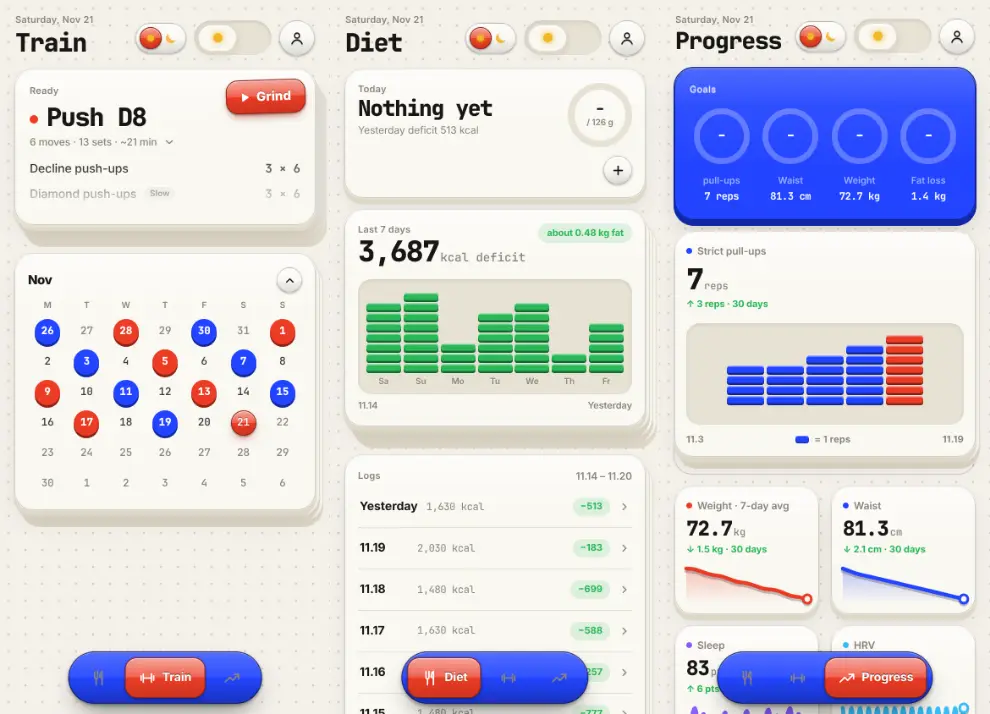
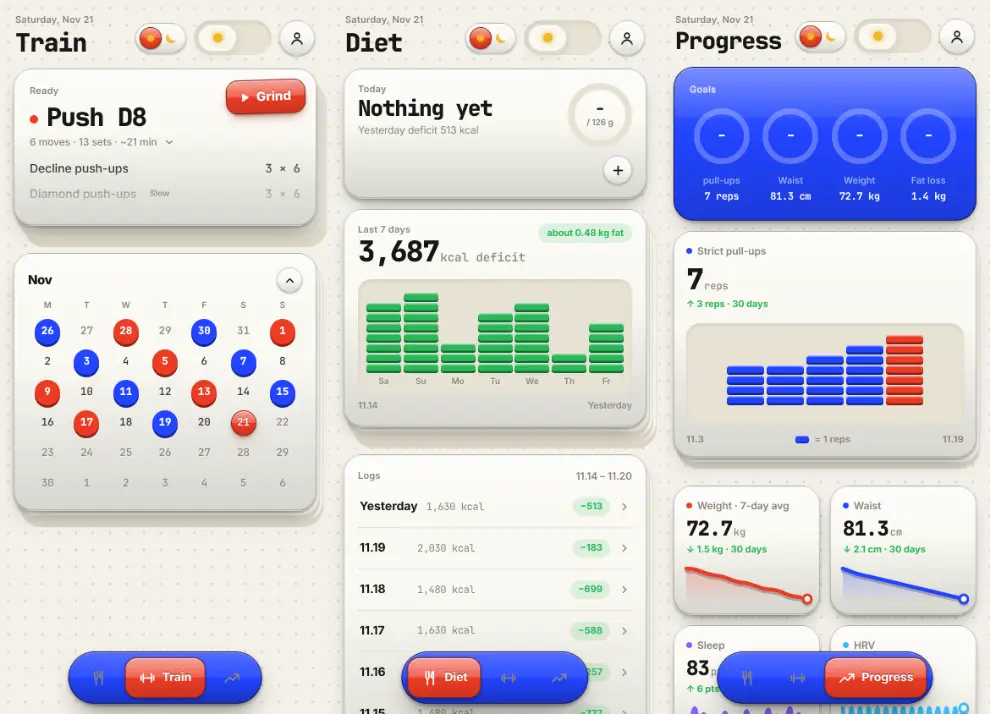
iOS 6 gloss themes: cards, tiles, boards and panels become glass slabs in the theme's colour; thumbnails reshot
Claude-Session: https://claude.ai/code/session_015uTD2PhWcYHBYc8Si5P4yd

diff --git a/css/p1.css b/css/p1.css
@@ -1666,11 +1666,25 @@ body.has-mini.mini-big .wrap{padding-bottom:calc(318px + env(safe-area-inset-bot
 :root[data-gloss][data-mode="dark"]{--g-top:rgba(255,255,255,.18);--g-mid:rgba(255,255,255,.05);--g-edge:rgba(0,0,0,.65);--g-inset:rgba(255,255,255,.16);--g-emb:0 -1px 0 rgba(0,0,0,.6)}
 :root[data-gloss][data-theme="toy"]{--g-btn:var(--red,var(--ac))}
 :root[data-gloss][data-gloss] body{text-shadow:var(--g-emb)}
-/* surfaces: each theme keeps its own card; the sheen lies on top of it as a layer under the content */
-:root[data-gloss][data-gloss] :is(.card,.tile,.dark,.sheet .panel,.mask .sheet,.mini-pl){isolation:isolate}
-:root[data-gloss][data-gloss] :is(.card,.tile,.dark,.sheet .panel,.mask .sheet,.mini-pl)::before{content:"";position:absolute;inset:0;border-radius:inherit;pointer-events:none;z-index:-1;
-  background:linear-gradient(180deg,var(--g-top) 0,var(--g-mid) 46px,rgba(255,255,255,0) 120px);box-shadow:inset 0 1px 0 var(--g-inset),inset 0 0 0 1px var(--g-edge)}
-:root[data-gloss][data-gloss] .dark:not(.hero)::before,:root[data-gloss][data-mode="dark"][data-gloss] .hero::before{background:linear-gradient(180deg,rgba(255,255,255,.2) 0,rgba(255,255,255,.06) 46px,rgba(255,255,255,0) 120px);box-shadow:inset 0 1px 0 rgba(255,255,255,.26),inset 0 0 0 1px rgba(0,0,0,.45)}
+/* surfaces: cards, tiles, panels and boards become glass slabs in the theme's own colour (--gb): a lighter top,
+   a bright band across the top cut by a hard line, a darker foot, a white hairline on top and a dark rim */
+:root[data-gloss]{--g-slab:linear-gradient(180deg,rgba(255,255,255,.55) 0,rgba(255,255,255,.14) 58px,rgba(255,255,255,0) 59px);--g-rim:rgba(0,0,0,.18)}
+:root[data-gloss][data-mode="dark"],:root[data-gloss][data-theme="tm4"]{--g-slab:linear-gradient(180deg,rgba(255,255,255,.2) 0,rgba(255,255,255,.05) 58px,rgba(255,255,255,0) 59px);--g-rim:rgba(0,0,0,.6)}
+:root[data-gloss][data-theme="pocket"]{--g-hero:#2A2E32}
+:root[data-gloss][data-theme="pocket"][data-mode="dark"]{--g-hero:#0B0C0D}
+:root[data-gloss][data-theme="toy"]{--g-dk:#2244FF}
+:root[data-gloss][data-theme="toy"][data-mode="dark"]{--g-dk:#6B3FB8}
+:root[data-gloss][data-theme="clay"]{--g-dk:#A4E2CD}
+:root[data-gloss][data-theme="tm4"]{--g-dk:var(--card)}
+:root[data-gloss][data-gloss] :is(.card,.tile,.sheet .panel,.mask .sheet,.mini-pl){--gb:var(--card)}
+:root[data-gloss][data-gloss] .hero.hero.hero{--gb:var(--g-hero,var(--card))}
+:root[data-gloss][data-gloss] .dark:not(.hero){--gb:var(--g-dk,var(--dark-solid))}
+:root[data-gloss][data-gloss] :is(.card,.tile,.dark,.sheet .panel,.mask .sheet,.mini-pl){
+  background:var(--g-slab),linear-gradient(180deg,color-mix(in srgb,var(--gb) 80%,#fff) 0%,var(--gb) 42%,color-mix(in srgb,var(--gb) 86%,#000) 100%);
+  border:1px solid var(--g-rim);box-shadow:inset 0 1px 0 var(--g-inset),inset 0 -1px 0 rgba(0,0,0,.14),0 2px 3px rgba(0,0,0,.22),0 12px 24px -12px rgba(0,0,0,.5)}
+/* boards with light text (and the pocket screen) take the darker glass */
+:root[data-gloss][data-gloss] .dark:not(.hero),:root[data-gloss][data-theme="pocket"][data-gloss] .hero{--g-slab:linear-gradient(180deg,rgba(255,255,255,.24) 0,rgba(255,255,255,.06) 58px,rgba(255,255,255,0) 59px);--g-inset:rgba(255,255,255,.3);--g-rim:rgba(0,0,0,.6)}
+:root[data-gloss][data-theme="clay"][data-gloss] .dark:not(.hero){--g-slab:linear-gradient(180deg,rgba(255,255,255,.55) 0,rgba(255,255,255,.14) 58px,rgba(255,255,255,0) 59px);--g-inset:rgba(255,255,255,.9);--g-rim:rgba(0,0,0,.18)}
 :root[data-gloss][data-gloss] :is(.opt,.thc,.preset,.xitem,.shopc,.badge){background:var(--g-soft),var(--sub);border:1px solid var(--g-edge);box-shadow:inset 0 1px 0 var(--g-inset),0 1px 1px rgba(0,0,0,.08)}
 :root[data-gloss][data-gloss] :is(.opt[aria-pressed="true"],.thc.on,.preset.on){border-color:color-mix(in srgb,var(--g-btn) 70%,#000);box-shadow:inset 0 1px 0 var(--g-inset),0 0 0 2px color-mix(in srgb,var(--g-btn) 45%,transparent)}
 /* accent keys: the classic two-tone glossy button */

diff --git a/index.html b/index.html
@@ -10,9 +10,9 @@
 <link rel="manifest" href="manifest.json?v=5">
 <link rel="apple-touch-icon" href="apple-touch-icon.png?v=5">
 <link rel="icon" href="icon-192.png?v=5" type="image/png">
-<script src="js/early.js?v=3b06e9bc"></script>
+<script src="js/early.js?v=91c23302"></script>
 <link rel="preload" href="fonts/geist-wght.woff2" as="font" type="font/woff2" crossorigin>
-<link rel="stylesheet" href="css/p1.css?v=3b06e9bc"></head><body>
+<link rel="stylesheet" href="css/p1.css?v=91c23302"></head><body>
 <div class="wrap">
   <header class="top">
     <div><p class="eyebrow" id="today"></p><h1 id="title">训练</h1></div>
@@ -40,21 +40,21 @@
 <div class="toast" id="toast" role="status"></div>
 <span id="ver" hidden>v1.66a</span>
 
-<script defer src="js/hant.js?v=3b06e9bc"></script>
-<script defer src="js/core.js?v=3b06e9bc"></script>
-<script defer src="js/diet.js?v=3b06e9bc"></script>
-<script defer src="js/confetti.js?v=3b06e9bc"></script>
-<script defer src="js/sheetcore.js?v=3b06e9bc"></script>
-<script defer src="js/backupcore.js?v=3b06e9bc"></script>
-<script defer src="js/p1data.js?v=3b06e9bc"></script>
-<script defer src="js/p1fx.js?v=3b06e9bc"></script>
-<script defer src="js/p1stack.js?v=3b06e9bc"></script>
-<script defer src="js/coros.js?v=3b06e9bc"></script>
-<script defer src="js/engine.js?v=3b06e9bc"></script>
-<script defer src="js/scratch.js?v=3b06e9bc"></script>
-<script defer src="js/p1.js?v=3b06e9bc"></script>
-<script defer src="js/p1settings.js?v=3b06e9bc"></script>
-<script defer src="js/p1day.js?v=3b06e9bc"></script>
-<script defer src="js/p1weather.js?v=3b06e9bc"></script>
-<script defer src="js/p1music.js?v=3b06e9bc"></script>
+<script defer src="js/hant.js?v=91c23302"></script>
+<script defer src="js/core.js?v=91c23302"></script>
+<script defer src="js/diet.js?v=91c23302"></script>
+<script defer src="js/confetti.js?v=91c23302"></script>
+<script defer src="js/sheetcore.js?v=91c23302"></script>
+<script defer src="js/backupcore.js?v=91c23302"></script>
+<script defer src="js/p1data.js?v=91c23302"></script>
+<script defer src="js/p1fx.js?v=91c23302"></script>
+<script defer src="js/p1stack.js?v=91c23302"></script>
+<script defer src="js/coros.js?v=91c23302"></script>
+<script defer src="js/engine.js?v=91c23302"></script>
+<script defer src="js/scratch.js?v=91c23302"></script>
+<script defer src="js/p1.js?v=91c23302"></script>
+<script defer src="js/p1settings.js?v=91c23302"></script>
+<script defer src="js/p1day.js?v=91c23302"></script>
+<script defer src="js/p1weather.js?v=91c23302"></script>
+<script defer src="js/p1music.js?v=91c23302"></script>
 </body></html>

diff --git a/docs/PRODUCT.md b/docs/PRODUCT.md
@@ -62,7 +62,7 @@
 - **主题盲盒：** G 分商店顶上，余额右边是 App 图标那只信封，隔几秒轻轻晃一下。点它问「花 100 G 开一个主题盲盒？」，付了之后弹出刮刮卡（Ovio 的 Scratch to Reveal，`js/scratch.js`），手指刮开涂层，刮过一半剩下的自己掉；下面是随机抽到的、你还没有的主题（色板 + 名字），揭开时放庆祝，下面出现「好」和「换上」。给过的主题不会再给；所有主题都有了，信封变灰，点了只提示已集齐。刮刮卡的样子跟着当前主题：草木、暖砂、喷砂铝、白瓷、粉瓷是 minimal（磨砂涂层），糖果塑料、黏土是 toy（撒糖粒的蓝橡胶，揭开时彩纸飞出），钴蓝、冰蓝拉丝、奶油塑料是 retro（绿色雪花噪点，一格一格擦），拉丝铝、米白烤漆、黑皮压纹是 craft（银色锡箔票，用硬币刮的毛边）。
 - **G 币和 G 分商店：** G 的图标是当下主题的圆形按钮，中间一个金色的 G，金光一呼一吸；商店叫「G 分商店」（谐音「积分」），英文 barGain store。
 - **图标：** 一只纸信封，里面插着一张刮刮卡（银色待刮的涂层），信封左下角压印一个图案。信封的纸色跟着主题走：每个主题、每个明暗版本都有自己颜色的一套（草木亮色是原稿的鼠尾草绿，钴蓝是钴蓝，粉瓷是粉，等等），纸的明暗、纹理、压印都保留。图案由用户在 设定 › 外观 › App 图标 里选：心、星、十字、鸟、猫、狗、兔（存在 `tracktor-p1-icon`）。换主题、切明暗或换图案时，网页的图标、iPhone 图标和 manifest 一起指到对应的那一套（`js/p1.js` 的 `iconApply`；`index.html` 开头的小脚本从 `tracktor-icon` 提前设好，这样安装时拿到的就是选好的）。主屏幕上已经装好的图标不会马上变：安卓一般过一两天自己更新，iPhone 要删掉重新添加（写在面板的「i」里）。图片是 `icons/<主题>-<light|dark>-<图案>.webp`（圆角方块）、`-m.webp`（可遮罩：方块缩小放在同色的深色底上）、`-a.png`（iPhone，180 px 满版）和 `.json`（那一套的 manifest），由 `tools/icons.py` 从 `tools/icon-src/` 的七张原稿染色生成（裁掉原稿的浅色边、重新做圆角）；仓库根目录的 `icon-*.png`、`apple-touch-icon.png` 是默认的草木绿爱心。主题盲盒就是这个图标：刮刮卡先藏在信封里，能开时卡片升出来，停在图标的样子。
-- **主题：** 多数主题有亮、暗两版，顶栏同步按钮左边是明暗开关（点一下切换，长按进主题页，也就是 G 分商店的主题区）；只有一种样子的主题没有这个开关，设定 › 外观里也不显示「跟随手机 / 亮 / 暗」，主题在 G 分商店换。G 分商店的主题列表只显示已经拥有的主题，没解锁的一个都不露，保持神秘；只有主题盲盒右上角一个数字，写着还有几套没解锁，新主题只从盲盒里开。盲盒就是 App 图标本身，只是信封封着：同样的蓝底、颗粒、玫红信封和左下角的心，卡片和 G 币藏在里面，上盖合着：G 不够 100 或主题都集齐了，点它只抖一下、不打开；能开时点它，先轻轻一按，上盖沿折痕往后翻开、内侧翻到卡片后面，卡片带着 G 币从信封里升出来、回弹停住，正好是 App 图标，接着进刮刮卡（面板没有标题）；能开时它隔几秒轻轻晃一下。刮刮卡穿的是当前主题的颜色和质感（卡片、颗粒、凹槽、强调色，Ovio 的 Scratch to Reveal 只是底子），没有多余的字，只有一条进度线；刮开不到一半，底下只是一团模糊，什么也看不出，这时关掉就算没开盒、不扣 G；刮过一半才扣 100 G、收进主题，奖品从模糊里慢慢清楚：那套主题三个主页面（训练、饮食、进展）的缩略图叠成一小摞（亮暗两版的是六张，名字后面一个彩色日月图标（黄太阳 | 紫月亮）），点它弹出一个不超过半个屏幕的面板，左右划或点一下一张张看。下面两个键：「收下」和「使用」。主题列表里每个主题也用自己三页的缩略图一小摞来认（当前明暗那一版），亮暗两版的带日月图标，不再用色块条。缩略图是 `img/th/<主题>-<light|dark>.webp`（三页并排），用 `tools/thumbs.js` 拿假数据在无头浏览器里截，一律是英文界面，三种语言共用一套。草木 · 极光免费（亮色石膏灰配柔和的鼠尾草绿，暗色深海黑配极光青）；暖砂 · 流金 60 G（亮色燕麦石灰配陶土橙，暗色黑曜石配落日流金）；玩具 90 G：照开源的 Ovio UI「toy」风格（MIT），点阵底板、塑料卡片带唇边、红蓝黄绿原色按键按下会沉下去、缺口柱子是一块块积木、日历上练过的日子是彩色塑料钉、目标是一块蓝色塑料板、数字用等宽字，打勾是红色街机按钮，彩带换成原色方块和圆点；亮色是奶油色塑料配红蓝黄绿，暗色是巨型机器人配色的夜间玩具：深紫底板和紫色塑料卡片，荧光青柠绿是主色，橙色是第二色（缺口 / 盈余、好 / 坏也是绿 / 橙），目标是一块紫色塑料板。立体感：顶栏的同步按钮照 Ovio 的 pull to sync 做成凹槽里的塑料滑块（拖到最右松手同步、弹簧弹回，轻点也同步；中间小灯平时黄、同步中闪、完成绿），头像是圆鼓鼓的蓝色塑料按钮；卡路里柱子照 Ovio 的 star history 摞成 8px 的小积木，每块底下一道深色唇边、顶上一线高光；卡片有亮的上沿和 7px 唇边，厚度更明显，图表的线是带投影的塑料管，目标圈有投影。声音也换成玩具声：打勾「啵」、做完一个动作木琴琶音、休息结束布谷鸟、练完玩具小号、点按塑料咔哒，烟花是卡通「砰」加一串弹珠声。亮色版的颜色都压低了饱和度，不刺眼，大约是一周练够三天赚的。另有四套只有一种样子的触感主题：钴蓝磨砂 120 G（暗：蓝色阳极铝面板，卡片带斜面高光，按钮是圆柱键帽，底板和卡路里柱子是点阵屏，线和指示灯有白蓝辉光，打勾是高圆柱旋钮）；拉丝铝 · 霓虹 120 G（亮：拉丝铝卡片配顶光，按钮是黑色阳极件上的青色霓虹字，小按钮是锥纹金属旋钮，打勾是黑表圈白表盘，目标板是黑色，柱子是喇叭网孔、今天那根亮青色）；米白烤漆 90 G（亮：米白机身，方键、凹碟、柿橙圆点，底栏是黑色键槽里的米白方键，顶栏按钮是黑座圆顶、头像是橄榄绿，打勾是滚花拨盘）；黏土 · 薄荷 90 G（亮：网格纸底，白色积木卡片带往左下的斜投影，按钮是薄荷积木，目标板是薄荷色，打勾做完变成发光的薄荷圆环）。这四套的光影按同一套做法：每套一个固定光源方向；每种材质有自己的颗粒（塑料细颗粒、拉丝铝的单向拉丝、黏土的哑光粉感）；卡片阴影分接触阴影、中距和远距三层，加上边缘高光和底部暗部；底板有顶光光池和四周暗角；高光跟着手机倾斜移动，金属旋钮的反光和滚花拨盘跟着转，手拿稳后慢慢回到原位（电脑上跟着鼠标）。系统开了「减少动态效果」就不动。玩具主题保持 Ovio 原版的卡通效果，不开光追（试过让按键侧面跟着倾斜，不自然又拖慢，去掉了）。每套主题的拉丁字母和数字用自己的字体（都放在网站里，离线也能用）：拉丝铝 Michroma（宽体仪表字，标题大写）、钴蓝 Doto（点阵字，带辉光；中文配 Fusion Pixel 像素字的子集，改名 bG Pixel SC，只含 App 用到的字和 3755 个常用字，标题、动作名、单位和数字一样是像素的）、米白 Inter Tight（瑞士风）、黏土 Nunito（圆润）、暖砂 Fraunces（温润的衬线），草木 · 极光用 Geist、标题和数字字重更轻、小标题大写加字距，偏冷淡。开关和分段按钮也各按主题做成不同的硬件：拉丝铝是凹槽里的金属球拨杆和走带键排、钴蓝是推子和键帽排、米白是黑槽里的米白拨杆和黑框方键排（选中的键下面一个柿橙点）、黏土是积木拨块。奶油塑料 120 G（亮、暗两版，跟着倾斜打光）：油润的半哑光塑料机身，亮色是暖灰机身配奶油色和藕粉色按键，暗色是黑色机身配橙色和朱红按键；训练卡和目标卡是嵌在边框里的点阵屏（标题和专注页的大数字用点阵字），按钮是带凹碟的方键，圆钮是旋钮，开关是小方槽里的圆按钮（打开时亮红灯），柱子是喇叭网孔，日历今天是红色指示灯。另有五套材质主题：冰蓝拉丝 120 G（固定亮色：冰蓝拉丝阳极铝机身，训练卡、目标卡和积木图是嵌在黑框里的绿灰色段码液晶，数字用液晶等宽字，小键是黑色橡胶键，开练是橙色播放键，打勾是银色拉丝转盘套橙圈，图标按钮是金属钮）；黑皮压纹 120 G（固定暗色：真的有凹凸的黑色压纹蒙皮，训练卡左边一道红色饰条，按钮是镁合金件，开练是红色，旋钮和小按钮是滚花拨盘，打勾是带银圈的快门键）；粉瓷 · 铜蓝 120 G（亮、暗两版，照 Dyson 两款吹风机的配色：亮是奶白陶瓷机身配玫瑰金属色风筒、淡紫灰滤网和旋纹按钮，底色是柔和的粉；暗是普鲁士蓝哑光机身配金铜风筒和铜色滤网、铜色旋纹按钮；两版共有：细颗粒的阳极氧化质感，按键和目标板是金属色，小圆钮是带深色边、微微凸起看得到厚度的旋纹金属钮，积木图和拨轮用穿孔滤网的纹样，打勾像正对着的风嘴，中间深色风口外一圈透明环；跟着光追有高光）；钴蓝的按钮和卡片是同一种平面斜边材质，不再是圆鼓鼓的键帽；喷砂铝 120 G（亮、暗两版：银色 / 深空灰的喷砂铝，钻石切边高光，按钮是黑色键帽，训练卡和目标卡像黑色屏幕嵌在边框里，开练是蓝色，打勾是带金属圈的指纹键）；白瓷 120 G（亮、暗两版：没有描边的实心瓷块，背后是柔和的彩色光斑，顶边一线高光、底边透光，下面一道透明的厚度，有一条亮的反光带，选中项是经典的蓝色渐变高亮，目标卡是蓝色背光屏，打勾是点按转盘，中间按钮做完变蓝）。积木柱状图：饮食页的缺口 / 盈余柱子是一块块积木摞成的（这张卡在可以左右划走的卡堆里，所以积木不随手指弹）。进展页的主项是一个两张牌的毛玻璃卡堆，字体和别的数据卡一样（小标签、大数字、涨跌）：第一张是主项最近 12 次的单组最好成绩，第二张是每周总数（训练日、加在训练里的、休息日记的都算，从第一个有记录的周开始、最多 12 周，大数字是总数，下面是本周）。两张都用积木：一块积木是一个整数（1、2、5、10…个，让最高那列不超过 9 块），图下写着「▬ = 5 个」，最高的一列换第二种颜色。画出来时积木一块块掉下来；手指在积木上划过，经过的那一列弹起、轻振一下，右上角浮出那一列的日期和数；积木区域里手指只读数、不翻牌，翻牌在卡片上半部分划，或点后面露出的那张。整个卡堆和别的数据卡一样，长按可以拖动或隐藏，点一下打开完整曲线。旋钮：图表的时间范围（14 天 / 30 天 / 90 天 / 全部）和设定里的语言（简中 / 繁中 / Eng）都是旋钮，标签排在上方的弧线上，可以转、点旋钮跳下一档、或点标签；每套主题的旋钮和积木都是自己的材质。设定 › 外观 › 特效：光追（开关：开是轻微的效果，高光跟着倾斜慢慢移动、每秒最多更新十来次；关掉就不跟倾斜）、天气、两天没练就落灰（两天没有训练或加练，画面开始落灰、泛黄、褪色，分三档：2–4 天、5–7 天、8 天起，四周的做旧斑驳（`img/grunge-1..3.webp`，用噪声画的，不是网上的图）一档比一档往里蔓延，裂纹和划痕也更多；暗色下是浅色的灰；一打勾就从左往右擦干净）、庆祝效果。庆祝效果跟着主题走（每套主题都有自己的，不再用通用烟花；不管东西轻重，每一片发射前都按它自己的重力和阻力算好力度，至少飞到屏幕上方三分之一），声音也换成一整套：草木撒叶子（3–8 月是深浅不一的绿叶，9–2 月是红橙黄褐的秋叶），配玻璃风铃；暖砂飘金箔，配温暖的铃声；粉瓷 · 铜蓝飘小花朵和花瓣（亮版粉和奶白，暗版金铜和奶白带一点淡蓝），先有一阵风声；喷砂铝和白瓷是一闪一闪的四角星光，配一声干净的「叮」；冰蓝拉丝撒一把小 MD 碟（半透明彩色外壳，能看到里面的光盘和滑盖，标签上是你最近在 Spotify 听过的歌的封面，没连 Spotify 就是白标签），落地塑料咔哒声；黑皮压纹是快门一闪、一圈六角光圈往外扩，配机械快门声；玩具撒带凸点的积木块（落地弹几下，倒积木的哗啦声）；钴蓝磨砂是整屏电子点阵爆闪（从爆点扩散的光环和随机闪点，大庆祝先白闪一下，配合成器琶音）；拉丝铝是青色霓虹冲击环加撒落的铬钢珠（落地会弹，叮当的金属声）；米白烤漆是翻转飘落的柿橙 / 米白 / 橄榄色圆片（叮咚两声的钟音）；黏土是落地会压扁的软泥团（噗噗声）；奶油塑料是一格一格落的 8-bit 像素方块（芯片音乐）；草木和暖砂保留烟花。打勾、做完一个动作、休息结束、练完、点按的音效也按主题换。页面标题会自动缩小，不碰顶栏按钮。暖砂 · 流金的底板加了纸张颗粒，卡片是暖色多层阴影、圆角更大。买过的记在 `settings.buys`，余额 = 赚的 − 花的。在「备份进度」里导入一个 G 充值文件（内容是 `PP2g:{"id":…,"g":数量}`）只会加 G、别的数据都不动，同一个文件只算一次（在 `settings.buys` 里记一条负的花费）。亮色下训练卡也是浅色卡片。 暖砂 · 流金、糖果塑料、奶油塑料、钴蓝磨砂、米白烤漆、粉瓷 · 铜蓝、黏土 · 薄荷这七套（`THEMES` 里的 `gloss:1`，页面上是 `html[data-gloss]`）统一加上经典 iOS 6 的玻璃反光质感，颜色仍是各自的：按键、开练、打勾、底栏选中、今天的日期是两段式高光（上半截亮、中间一道硬分界、下沿暗一点、深色描边、字压一道阴影）；卡片、面板、播放器在自己的底色上叠一层顶部渐弱的反光和一线白色高光边；小圆钮和设定行是玻璃质的浅色胶囊；开关统一成 iOS 6 的样子（凹下去的槽、白色玻璃圆钮）；分段按钮选中的那段是强调色玻璃；文字带一道压印阴影（亮色往下白、暗色往上黑）。
+- **主题：** 多数主题有亮、暗两版，顶栏同步按钮左边是明暗开关（点一下切换，长按进主题页，也就是 G 分商店的主题区）；只有一种样子的主题没有这个开关，设定 › 外观里也不显示「跟随手机 / 亮 / 暗」，主题在 G 分商店换。G 分商店的主题列表只显示已经拥有的主题，没解锁的一个都不露，保持神秘；只有主题盲盒右上角一个数字，写着还有几套没解锁，新主题只从盲盒里开。盲盒就是 App 图标本身，只是信封封着：同样的蓝底、颗粒、玫红信封和左下角的心，卡片和 G 币藏在里面，上盖合着：G 不够 100 或主题都集齐了，点它只抖一下、不打开；能开时点它，先轻轻一按，上盖沿折痕往后翻开、内侧翻到卡片后面，卡片带着 G 币从信封里升出来、回弹停住，正好是 App 图标，接着进刮刮卡（面板没有标题）；能开时它隔几秒轻轻晃一下。刮刮卡穿的是当前主题的颜色和质感（卡片、颗粒、凹槽、强调色，Ovio 的 Scratch to Reveal 只是底子），没有多余的字，只有一条进度线；刮开不到一半，底下只是一团模糊，什么也看不出，这时关掉就算没开盒、不扣 G；刮过一半才扣 100 G、收进主题，奖品从模糊里慢慢清楚：那套主题三个主页面（训练、饮食、进展）的缩略图叠成一小摞（亮暗两版的是六张，名字后面一个彩色日月图标（黄太阳 | 紫月亮）），点它弹出一个不超过半个屏幕的面板，左右划或点一下一张张看。下面两个键：「收下」和「使用」。主题列表里每个主题也用自己三页的缩略图一小摞来认（当前明暗那一版），亮暗两版的带日月图标，不再用色块条。缩略图是 `img/th/<主题>-<light|dark>.webp`（三页并排），用 `tools/thumbs.js` 拿假数据在无头浏览器里截，一律是英文界面，三种语言共用一套。草木 · 极光免费（亮色石膏灰配柔和的鼠尾草绿，暗色深海黑配极光青）；暖砂 · 流金 60 G（亮色燕麦石灰配陶土橙，暗色黑曜石配落日流金）；玩具 90 G：照开源的 Ovio UI「toy」风格（MIT），点阵底板、塑料卡片带唇边、红蓝黄绿原色按键按下会沉下去、缺口柱子是一块块积木、日历上练过的日子是彩色塑料钉、目标是一块蓝色塑料板、数字用等宽字，打勾是红色街机按钮，彩带换成原色方块和圆点；亮色是奶油色塑料配红蓝黄绿，暗色是巨型机器人配色的夜间玩具：深紫底板和紫色塑料卡片，荧光青柠绿是主色，橙色是第二色（缺口 / 盈余、好 / 坏也是绿 / 橙），目标是一块紫色塑料板。立体感：顶栏的同步按钮照 Ovio 的 pull to sync 做成凹槽里的塑料滑块（拖到最右松手同步、弹簧弹回，轻点也同步；中间小灯平时黄、同步中闪、完成绿），头像是圆鼓鼓的蓝色塑料按钮；卡路里柱子照 Ovio 的 star history 摞成 8px 的小积木，每块底下一道深色唇边、顶上一线高光；卡片有亮的上沿和 7px 唇边，厚度更明显，图表的线是带投影的塑料管，目标圈有投影。声音也换成玩具声：打勾「啵」、做完一个动作木琴琶音、休息结束布谷鸟、练完玩具小号、点按塑料咔哒，烟花是卡通「砰」加一串弹珠声。亮色版的颜色都压低了饱和度，不刺眼，大约是一周练够三天赚的。另有四套只有一种样子的触感主题：钴蓝磨砂 120 G（暗：蓝色阳极铝面板，卡片带斜面高光，按钮是圆柱键帽，底板和卡路里柱子是点阵屏，线和指示灯有白蓝辉光，打勾是高圆柱旋钮）；拉丝铝 · 霓虹 120 G（亮：拉丝铝卡片配顶光，按钮是黑色阳极件上的青色霓虹字，小按钮是锥纹金属旋钮，打勾是黑表圈白表盘，目标板是黑色，柱子是喇叭网孔、今天那根亮青色）；米白烤漆 90 G（亮：米白机身，方键、凹碟、柿橙圆点，底栏是黑色键槽里的米白方键，顶栏按钮是黑座圆顶、头像是橄榄绿，打勾是滚花拨盘）；黏土 · 薄荷 90 G（亮：网格纸底，白色积木卡片带往左下的斜投影，按钮是薄荷积木，目标板是薄荷色，打勾做完变成发光的薄荷圆环）。这四套的光影按同一套做法：每套一个固定光源方向；每种材质有自己的颗粒（塑料细颗粒、拉丝铝的单向拉丝、黏土的哑光粉感）；卡片阴影分接触阴影、中距和远距三层，加上边缘高光和底部暗部；底板有顶光光池和四周暗角；高光跟着手机倾斜移动，金属旋钮的反光和滚花拨盘跟着转，手拿稳后慢慢回到原位（电脑上跟着鼠标）。系统开了「减少动态效果」就不动。玩具主题保持 Ovio 原版的卡通效果，不开光追（试过让按键侧面跟着倾斜，不自然又拖慢，去掉了）。每套主题的拉丁字母和数字用自己的字体（都放在网站里，离线也能用）：拉丝铝 Michroma（宽体仪表字，标题大写）、钴蓝 Doto（点阵字，带辉光；中文配 Fusion Pixel 像素字的子集，改名 bG Pixel SC，只含 App 用到的字和 3755 个常用字，标题、动作名、单位和数字一样是像素的）、米白 Inter Tight（瑞士风）、黏土 Nunito（圆润）、暖砂 Fraunces（温润的衬线），草木 · 极光用 Geist、标题和数字字重更轻、小标题大写加字距，偏冷淡。开关和分段按钮也各按主题做成不同的硬件：拉丝铝是凹槽里的金属球拨杆和走带键排、钴蓝是推子和键帽排、米白是黑槽里的米白拨杆和黑框方键排（选中的键下面一个柿橙点）、黏土是积木拨块。奶油塑料 120 G（亮、暗两版，跟着倾斜打光）：油润的半哑光塑料机身，亮色是暖灰机身配奶油色和藕粉色按键，暗色是黑色机身配橙色和朱红按键；训练卡和目标卡是嵌在边框里的点阵屏（标题和专注页的大数字用点阵字），按钮是带凹碟的方键，圆钮是旋钮，开关是小方槽里的圆按钮（打开时亮红灯），柱子是喇叭网孔，日历今天是红色指示灯。另有五套材质主题：冰蓝拉丝 120 G（固定亮色：冰蓝拉丝阳极铝机身，训练卡、目标卡和积木图是嵌在黑框里的绿灰色段码液晶，数字用液晶等宽字，小键是黑色橡胶键，开练是橙色播放键，打勾是银色拉丝转盘套橙圈，图标按钮是金属钮）；黑皮压纹 120 G（固定暗色：真的有凹凸的黑色压纹蒙皮，训练卡左边一道红色饰条，按钮是镁合金件，开练是红色，旋钮和小按钮是滚花拨盘，打勾是带银圈的快门键）；粉瓷 · 铜蓝 120 G（亮、暗两版，照 Dyson 两款吹风机的配色：亮是奶白陶瓷机身配玫瑰金属色风筒、淡紫灰滤网和旋纹按钮，底色是柔和的粉；暗是普鲁士蓝哑光机身配金铜风筒和铜色滤网、铜色旋纹按钮；两版共有：细颗粒的阳极氧化质感，按键和目标板是金属色，小圆钮是带深色边、微微凸起看得到厚度的旋纹金属钮，积木图和拨轮用穿孔滤网的纹样，打勾像正对着的风嘴，中间深色风口外一圈透明环；跟着光追有高光）；钴蓝的按钮和卡片是同一种平面斜边材质，不再是圆鼓鼓的键帽；喷砂铝 120 G（亮、暗两版：银色 / 深空灰的喷砂铝，钻石切边高光，按钮是黑色键帽，训练卡和目标卡像黑色屏幕嵌在边框里，开练是蓝色，打勾是带金属圈的指纹键）；白瓷 120 G（亮、暗两版：没有描边的实心瓷块，背后是柔和的彩色光斑，顶边一线高光、底边透光，下面一道透明的厚度，有一条亮的反光带，选中项是经典的蓝色渐变高亮，目标卡是蓝色背光屏，打勾是点按转盘，中间按钮做完变蓝）。积木柱状图：饮食页的缺口 / 盈余柱子是一块块积木摞成的（这张卡在可以左右划走的卡堆里，所以积木不随手指弹）。进展页的主项是一个两张牌的毛玻璃卡堆，字体和别的数据卡一样（小标签、大数字、涨跌）：第一张是主项最近 12 次的单组最好成绩，第二张是每周总数（训练日、加在训练里的、休息日记的都算，从第一个有记录的周开始、最多 12 周，大数字是总数，下面是本周）。两张都用积木：一块积木是一个整数（1、2、5、10…个，让最高那列不超过 9 块），图下写着「▬ = 5 个」，最高的一列换第二种颜色。画出来时积木一块块掉下来；手指在积木上划过，经过的那一列弹起、轻振一下，右上角浮出那一列的日期和数；积木区域里手指只读数、不翻牌，翻牌在卡片上半部分划，或点后面露出的那张。整个卡堆和别的数据卡一样，长按可以拖动或隐藏，点一下打开完整曲线。旋钮：图表的时间范围（14 天 / 30 天 / 90 天 / 全部）和设定里的语言（简中 / 繁中 / Eng）都是旋钮，标签排在上方的弧线上，可以转、点旋钮跳下一档、或点标签；每套主题的旋钮和积木都是自己的材质。设定 › 外观 › 特效：光追（开关：开是轻微的效果，高光跟着倾斜慢慢移动、每秒最多更新十来次；关掉就不跟倾斜）、天气、两天没练就落灰（两天没有训练或加练，画面开始落灰、泛黄、褪色，分三档：2–4 天、5–7 天、8 天起，四周的做旧斑驳（`img/grunge-1..3.webp`，用噪声画的，不是网上的图）一档比一档往里蔓延，裂纹和划痕也更多；暗色下是浅色的灰；一打勾就从左往右擦干净）、庆祝效果。庆祝效果跟着主题走（每套主题都有自己的，不再用通用烟花；不管东西轻重，每一片发射前都按它自己的重力和阻力算好力度，至少飞到屏幕上方三分之一），声音也换成一整套：草木撒叶子（3–8 月是深浅不一的绿叶，9–2 月是红橙黄褐的秋叶），配玻璃风铃；暖砂飘金箔，配温暖的铃声；粉瓷 · 铜蓝飘小花朵和花瓣（亮版粉和奶白，暗版金铜和奶白带一点淡蓝），先有一阵风声；喷砂铝和白瓷是一闪一闪的四角星光，配一声干净的「叮」；冰蓝拉丝撒一把小 MD 碟（半透明彩色外壳，能看到里面的光盘和滑盖，标签上是你最近在 Spotify 听过的歌的封面，没连 Spotify 就是白标签），落地塑料咔哒声；黑皮压纹是快门一闪、一圈六角光圈往外扩，配机械快门声；玩具撒带凸点的积木块（落地弹几下，倒积木的哗啦声）；钴蓝磨砂是整屏电子点阵爆闪（从爆点扩散的光环和随机闪点，大庆祝先白闪一下，配合成器琶音）；拉丝铝是青色霓虹冲击环加撒落的铬钢珠（落地会弹，叮当的金属声）；米白烤漆是翻转飘落的柿橙 / 米白 / 橄榄色圆片（叮咚两声的钟音）；黏土是落地会压扁的软泥团（噗噗声）；奶油塑料是一格一格落的 8-bit 像素方块（芯片音乐）；草木和暖砂保留烟花。打勾、做完一个动作、休息结束、练完、点按的音效也按主题换。页面标题会自动缩小，不碰顶栏按钮。暖砂 · 流金的底板加了纸张颗粒，卡片是暖色多层阴影、圆角更大。买过的记在 `settings.buys`，余额 = 赚的 − 花的。在「备份进度」里导入一个 G 充值文件（内容是 `PP2g:{"id":…,"g":数量}`）只会加 G、别的数据都不动，同一个文件只算一次（在 `settings.buys` 里记一条负的花费）。亮色下训练卡也是浅色卡片。 暖砂 · 流金、糖果塑料、奶油塑料、钴蓝磨砂、米白烤漆、粉瓷 · 铜蓝、黏土 · 薄荷这七套（`THEMES` 里的 `gloss:1`，页面上是 `html[data-gloss]`）统一加上经典 iOS 6 的玻璃反光质感，颜色仍是各自的：按键、开练、打勾、底栏选中、今天的日期是两段式高光（上半截亮、中间一道硬分界、下沿暗一点、深色描边、字压一道阴影）；卡片、数据卡、目标板、面板、播放器都是同色的玻璃板（用主题自己的颜色：顶部偏亮、底部偏暗，顶上一道亮带在约 58px 处一刀切断，顶边一线白色高光、四周一圈深色描边；浅字的板子用深色玻璃，奶油塑料的训练卡仍是深色屏，黏土的目标板仍是薄荷色）；小圆钮和设定行是玻璃质的浅色胶囊；开关统一成 iOS 6 的样子（凹下去的槽、白色玻璃圆钮）；分段按钮选中的那段是强调色玻璃；文字带一道压印阴影（亮色往下白、暗色往上黑）。
 - **样子：** 和 SplitFlow 同一套做法：亮色是石膏灰配荧光绿，暗色是深海黑配极光青，背景一团淡光；大圆角卡片、极淡边框、上沿高光；数字用 Geist；一个强调色，字重三档；所有详情和编辑都用同一种底部弹出面板，往下拖能关；一组同类的卡片（训练日、日历的周和月、饮食记录）用同一种毛玻璃 swipe stack（`js/p1stack.js`）：后面的牌是整张卡、整齐地一张比一张往右下错开一小步、颜色略深、底边一道细硬阴影，像一摞有厚度的牌（手指按上去时整摞再拉开一点），最多露三张，只要还有别的牌就露出来；划动时下面一张是毛玻璃，划走上面一张后 0.3 秒内变清晰，手指往右是往前的时间；动效用同一条回弹曲线，系统要求减少动态时全部关掉。语言：简体中文、繁体中文、英文，头像 › 语言切换，当场换，设定面板留着。繁体是把简体界面逐字换成台湾用字（`js/hant.js`，对照表用 OpenCC 生成，只收界面用到的字），弹窗和确认框也换。
 
 ## 现在的样子

diff --git a/CLAUDE.md b/CLAUDE.md
@@ -42,7 +42,7 @@
 - G 币图标 `COIN`（`js/p1.js`）是当下主题的 `.circ` 圆钮加金色 G、呼吸发光；商店叫「G 分商店 / barGain store」。
 - G（积分，Grind）从记录现算（`js/p1data.js` 的 `coinBadges`），不另存；余额 = 赚的 − `settings.buys` 里花掉的。训练计划除了推拉二分（`cyclist`）、自由练、自定义，其他预设要 200 G 解锁（`js/p1settings.js` 的 `planOwned`，买的记 `plan:<id>`）。主题盲盒（`js/p1.js` 的 `openBox`，100 G）随机给一个还没有的主题，记在 `settings.buys`（带 `box:1`），都集齐了就不能开。
 - App 图标：纸信封加刮刮卡，每个主题的每个明暗版本一种纸色、七种图案任选（`tracktor-p1-icon`），文件在 `icons/`（`<主题>-<light|dark>-<图案>.webp`、`-m.webp`、`-a.png`、`.json`），由 `python3 tools/icons.py` 从 `tools/icon-src/` 的原稿染色生成（要 Pillow 和 numpy，跑十几分钟）；加新主题要在脚本的 `LOOKS` 里加它的纸色再跑一遍，图片重做后把 `js/p1.js` 的 `ICON_V` 和 `index.html` 开头小脚本里的 `?v=` 一起加一。`js/p1.js` 的 `iconApply` 负责把网页图标和 manifest 指到当前那一套。
-- iOS 6 玻璃反光：`THEMES` 里带 `gloss:1` 的主题（现在是 ember、toy、pocket、tm4、braun、dyson、clay）由 `applyMode` 加上 `html[data-gloss]`，`css/p1.css` 末尾那一段统一给按键、卡片、开关、底栏加反光，用双写的属性选择器压过各主题自己的材质规则；卡片的反光是 `::before` 叠层（`isolation:isolate`），不替换主题自己的底色。组件目录 `board.html` 里也要登记这份名单。
+- iOS 6 玻璃反光：`THEMES` 里带 `gloss:1` 的主题（现在是 ember、toy、pocket、tm4、braun、dyson、clay）由 `applyMode` 加上 `html[data-gloss]`，`css/p1.css` 末尾那一段统一给按键、卡片、开关、底栏加反光，用双写的属性选择器压过各主题自己的材质规则；卡片、数据卡、目标板、面板都换成同色玻璃板，底色是 `--gb`（一般 `--card`；浅字的 `.dark` 板用 `--g-dk`，奶油塑料的训练卡用 `--g-hero`），加新主题时看它原来哪些板子是深底浅字，在这里补上。组件目录 `board.html` 里也要登记这份名单。
 - 主题缩略图：`img/th/<id>-<light|dark>.webp`，训练、饮食、进展三页并排，开本地服务器后 `node tools/thumbs.js` 用假数据重截（英文界面，三种语言共用）。新主题或主页面样子明显变了就重截，并把 `js/p1.js` 的 `TH_V` 加一（图片不在 `sw.js` 预缓存列表里，用到时才缓存，换地址才会更新）。
 - 主题（`js/p1.js` 的 `THEMES`，`css/p1.css` 里 `:root[data-theme=…]`，亮暗两版靠 `data-mode`）：一般要有亮、暗两版；只有一种样子的主题在 `THEMES` 里写 `fix:"light"|"dark"`，这时 `html[data-fixed]` 藏掉明暗开关和设定里的明暗选项（顶栏换成调色盘 `#themeBtn`，进主题列表），手机倾斜写进 `--lx`/`--ly`/`--rot`（`js/p1.js`），触感主题和奶油塑料（`THEMES` 里 `lit`）的高光和金属反光用它们；玩具主题不接光追。主题字体放 `fonts/`（许可见 `fonts/THEMES-OFL.txt`；拉丁字体没有中文，点阵主题的中文用 `fonts/bg-pixel-sc.woff2`（Fusion Pixel 的子集，按许可改名，`unicode-range` 只管中文），界面里加了新汉字要重新切子集），材质颗粒（拉丝、细颗粒、黏土粉、压纹皮、喷砂）是 `img/tex-*.webp`（从 SVG 噪声预先渲染，比现场算快；新材质也这样做），标题和大数字用 `--disp`，小数字用 `--num`。草木 · 极光免费，其他用 G 换。顶栏的明暗开关点一下切换，长按进主题页。
 - 训练计划：`settings.plan`（`js/engine.js` 的 `PRESETS`/`setPlan`）选 1–3 种训练日，内部类型固定是 `push`、`pull`、`third`（名字由计划定，`js/core.js` 的 `dayName`/`LAB`）；进度文件里训练的键前缀是 u、l、t。预设只是数据，以后用户写的计划也照这个格式。自由练 `id:"free"`（`js/engine.js` 的 `freeBase`/`freeLog`/`freePattern`）：没选过计划、也没练过正式训练的新用户默认是它；建议从最近 3 周的训练和加练里长出来（散步骑行这类不排），按部位多久没练排，每次至少 2 个动作 5 组；练法稳定后提示存成自定义计划。自定义计划 `id:"custom"`（`setCustomPlan`，面板 `openCustom`）：只用练过的动作（`engMoves`），每个动作从自己的上次记录接着练；自定义计划和自由练下引擎不换动作（`engCustom`）；一种训练日里找不到某动作的历史时，到所有训练和加练里找（`engMoveHist`）。
